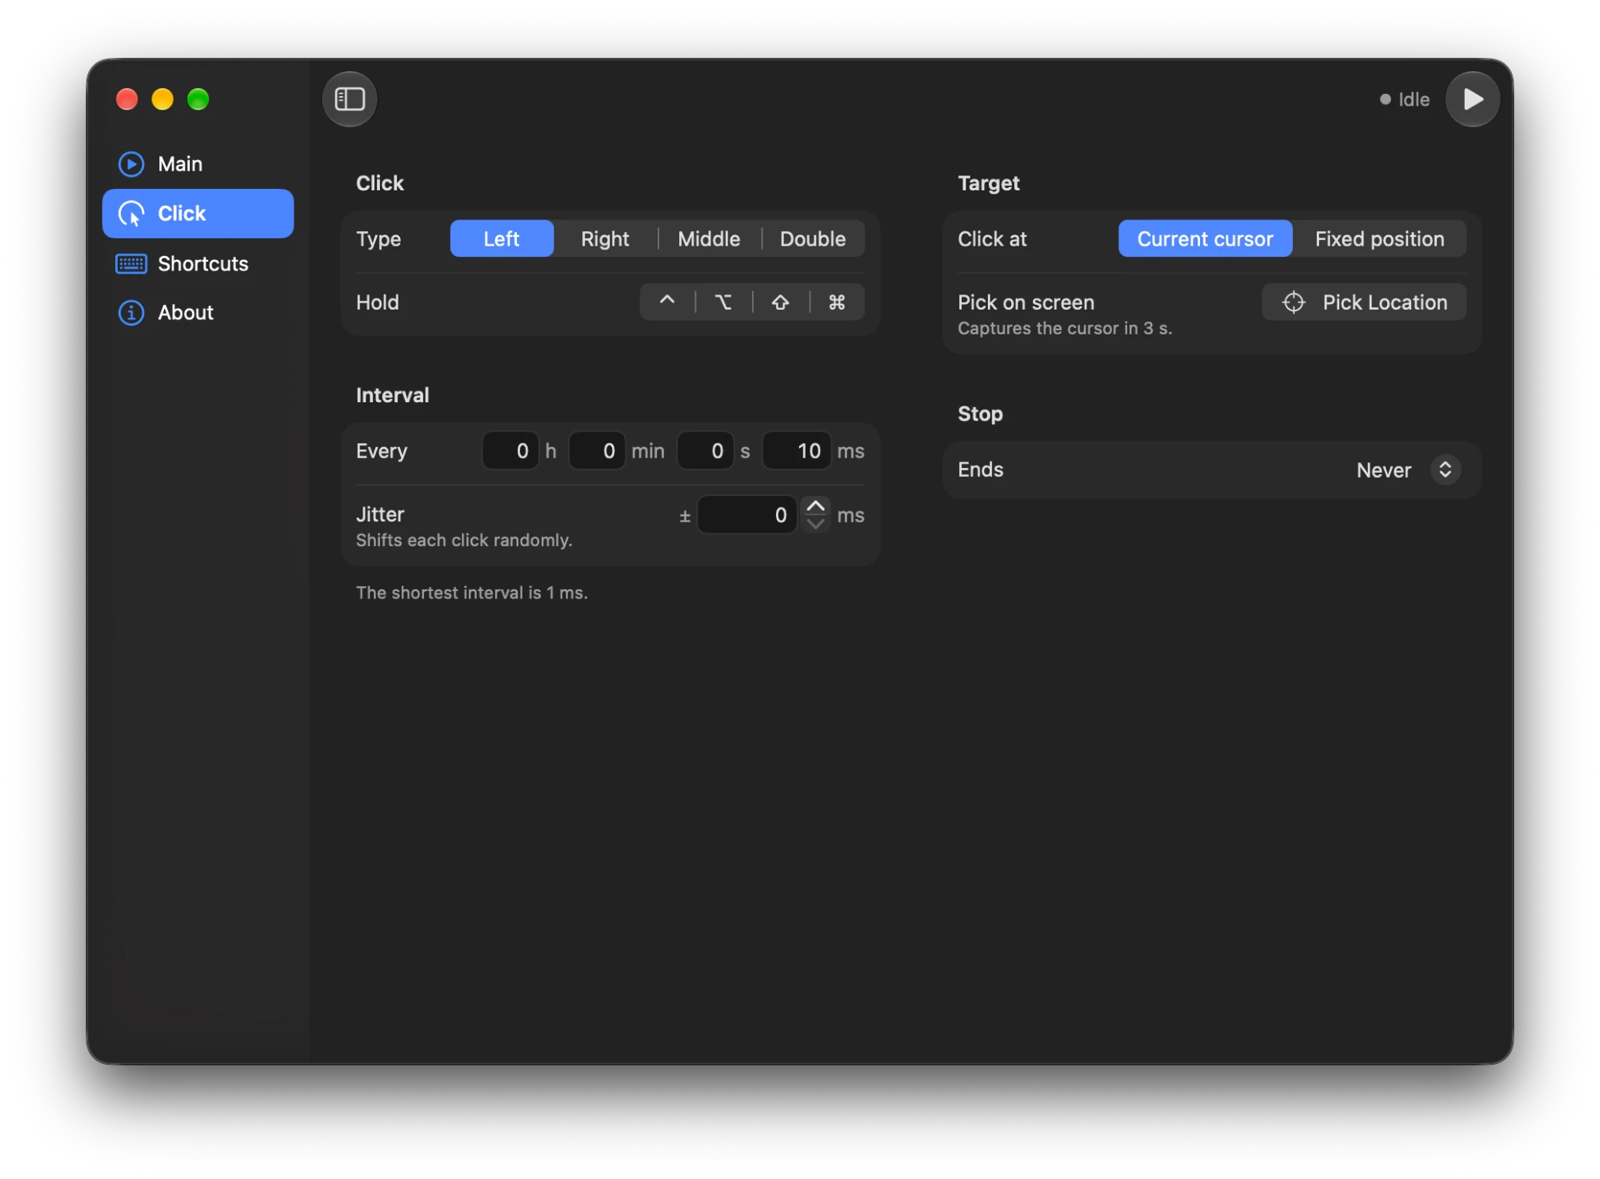
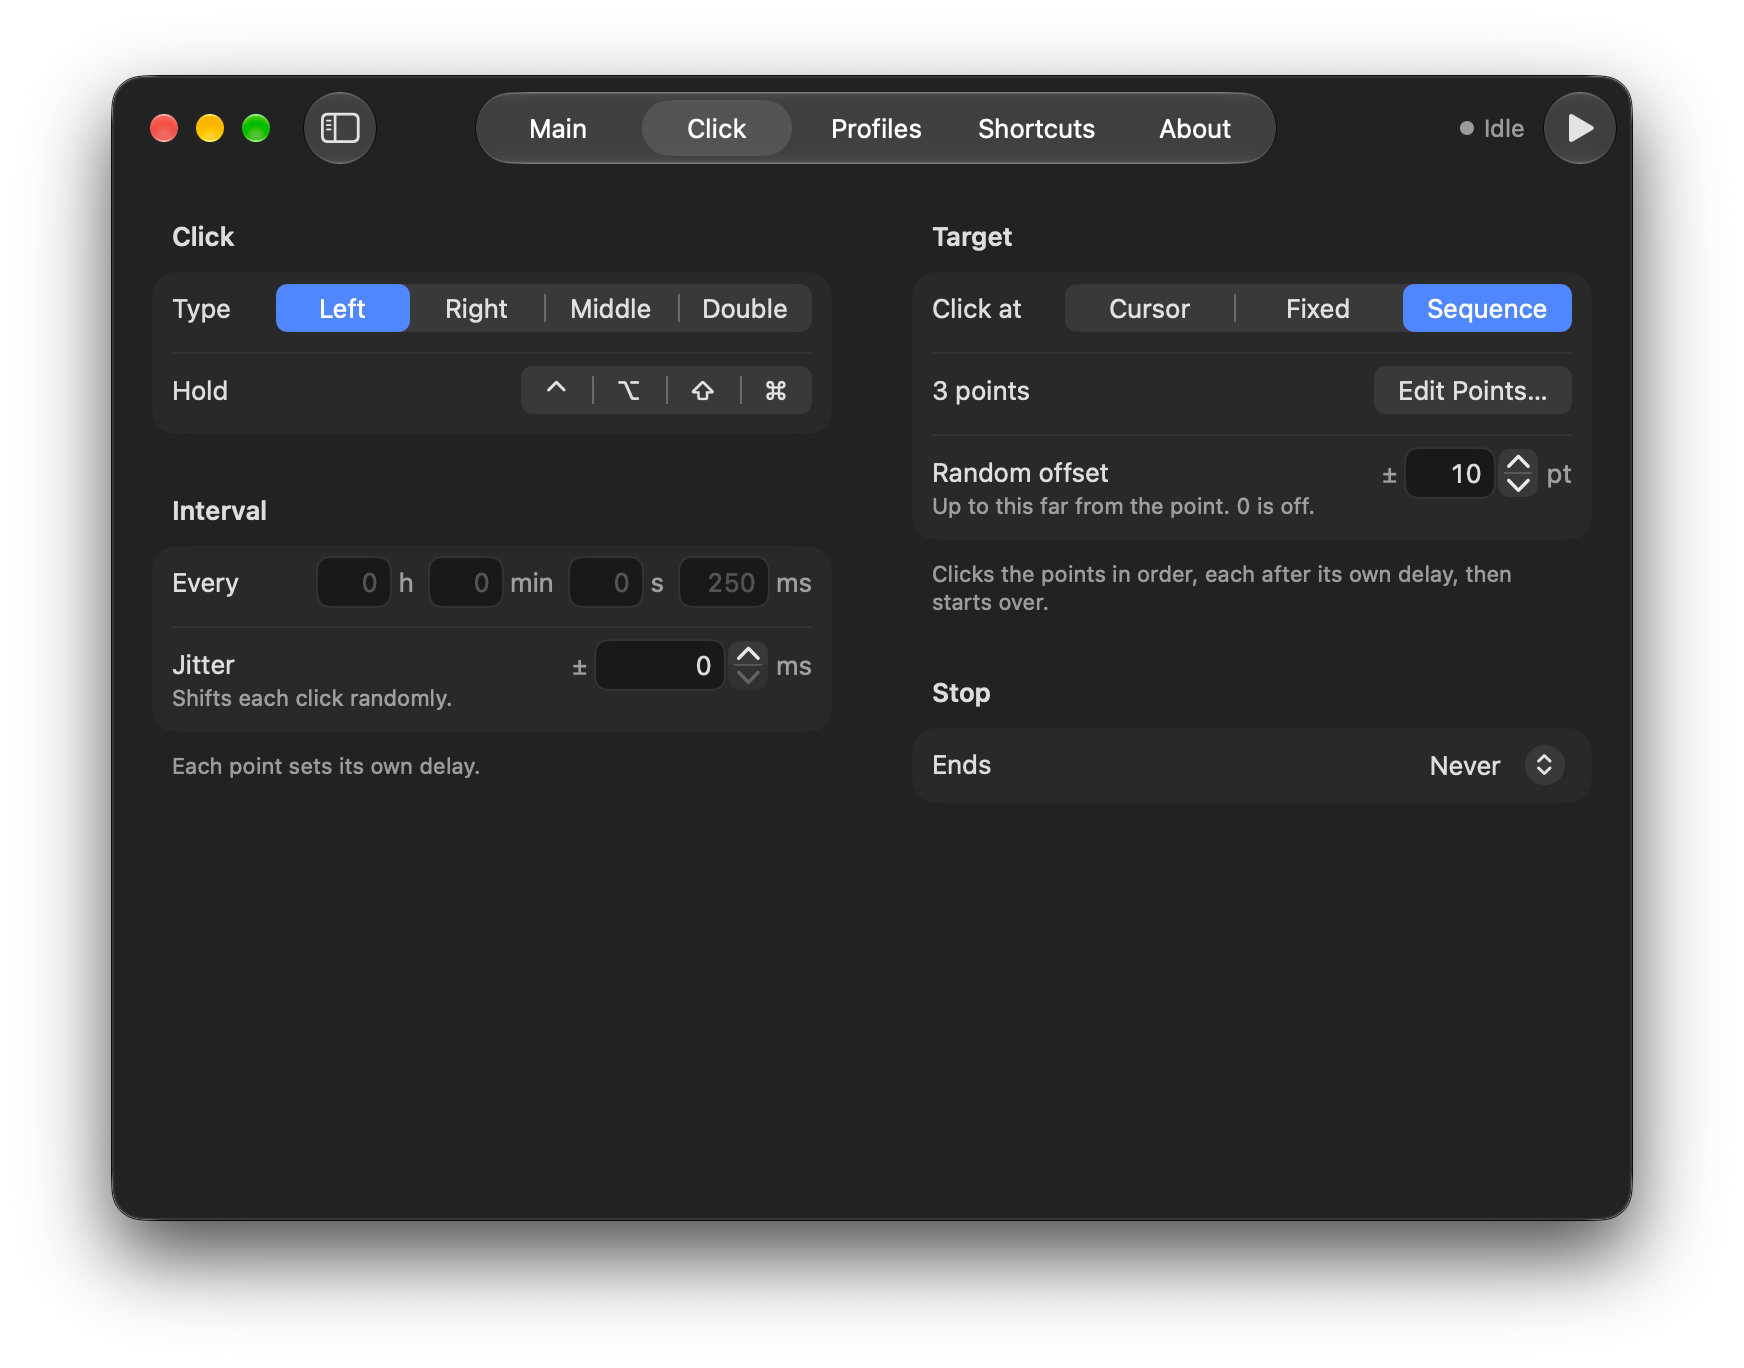
docs: refresh the README for 0.2.0
New screenshots of the Main, Click (sequence), Profiles tabs and the Edit
Points sheet; usage for sequences and profiles; an update FAQ.

diff --git a/README.md b/README.md
@@ -17,7 +17,7 @@ Native Swift and SwiftUI · Apple Silicon and Intel · Free and open source
 [![Swift 6](https://img.shields.io/badge/Swift-6-F05138?logo=swift&logoColor=white)](https://www.swift.org)
 [![MIT license](https://img.shields.io/github/license/mfatihkara8/AutoClicker?color=lightgrey)](LICENSE)
 
-<img src="docs/images/main-tab.png" alt="The AutoClicker window on its Main tab, with the click counter and the Start button" width="720">
+<img src="docs/images/main-tab.png" alt="The AutoClicker window on its Main tab, with the active profile, the click counter and the Start button" width="720">
 
 </div>
 
@@ -45,7 +45,7 @@ Native Swift and SwiftUI · Apple Silicon and Intel · Free and open source
   - It makes no network requests and collects no data.
 
 <p align="center">
-  <img src="docs/images/click-tab.png" alt="The Click tab with the click type, modifier keys, interval, target and stop condition" width="720">
+  <img src="docs/images/click-tab.png" alt="The Click tab with a three-point click sequence, a random offset, the click type, interval and stop condition" width="720">
 </p>
 
 ## Install
@@ -78,6 +78,15 @@ shasum -a 256 ~/Downloads/AutoClicker-*.dmg
 1. On the **Click** tab, choose the click type, interval, target and when to stop.
 2. Press <kbd>F6</kbd> to start. Press it again to stop.
 
+**Click several points:**
+1. Under **Target**, choose **Sequence** and click **Edit Points…**.
+2. Click **Add Point**, and move the pointer to the spot within 3 seconds.
+3. Repeat for each point, and set each point's delay.
+
+AutoClicker clicks the points in order, then starts over.
+
+**Save a setup:** on the **Profiles** tab, click **Save as New Profile…**. Apply it later from that tab, or from the **Profiles** submenu of the menu bar extra.
+
 | Shortcut | What it does |
 |---|---|
 | <kbd>F6</kbd> | Starts or stops clicking from any app. You can record your own on the **Shortcuts** tab. |
@@ -85,11 +94,11 @@ shasum -a 256 ~/Downloads/AutoClicker-*.dmg
 | Screen corner | Moving the pointer into any corner of a screen stops clicking. |
 | <kbd>⌘</kbd> <kbd>,</kbd> | Opens the **Shortcuts** tab. |
 
-The menu bar extra shows the status and the click count, and has Start/Stop. AutoClicker keeps running there after you close its window. To quit, choose **Quit AutoClicker** in the menu bar extra, or press <kbd>⌘</kbd> <kbd>Q</kbd> while the window is active.
+The menu bar extra shows the status and the click count, and has Start/Stop and your profiles. AutoClicker keeps running there after you close its window. To quit, choose **Quit AutoClicker** in the menu bar extra, or press <kbd>⌘</kbd> <kbd>Q</kbd> while the window is active.
 
 <p align="center">
-  <img src="docs/images/shortcuts-tab.png" alt="The Shortcuts tab, with the start/stop shortcut, its Change and Reset buttons, and the Esc emergency stop" width="49%">
-  <img src="docs/images/about-tab.png" alt="The About tab, with the version, the Accessibility permission state, the GitHub link and Report a Bug" width="49%">
+  <img src="docs/images/profiles-tab.png" alt="The Profiles tab, with the current settings, Save Changes, Save as New Profile, and three saved profiles" width="49%">
+  <img src="docs/images/sequence-sheet.png" alt="The Edit Points sheet, with three points, their X and Y positions and delays, and Add Point" width="49%">
 </p>
 
 ## FAQ
@@ -156,6 +165,18 @@ Any of these stops clicking:
 - Move the pointer into any corner of the screen.
 
 AutoClicker also skips clicks that would land on its own window, so you can always reach the Stop button.
+
+</details>
+
+<details>
+<summary><b>How do I update?</b></summary>
+<br>
+
+1. Download the new DMG from the [latest release](https://github.com/mfatihkara8/AutoClicker/releases/latest).
+2. Quit AutoClicker.
+3. Drag the new app onto **Applications** and replace the old one.
+
+Your settings and profiles carry over. macOS may ask you to confirm the first launch again with **Open Anyway**.
 
 </details>
 
